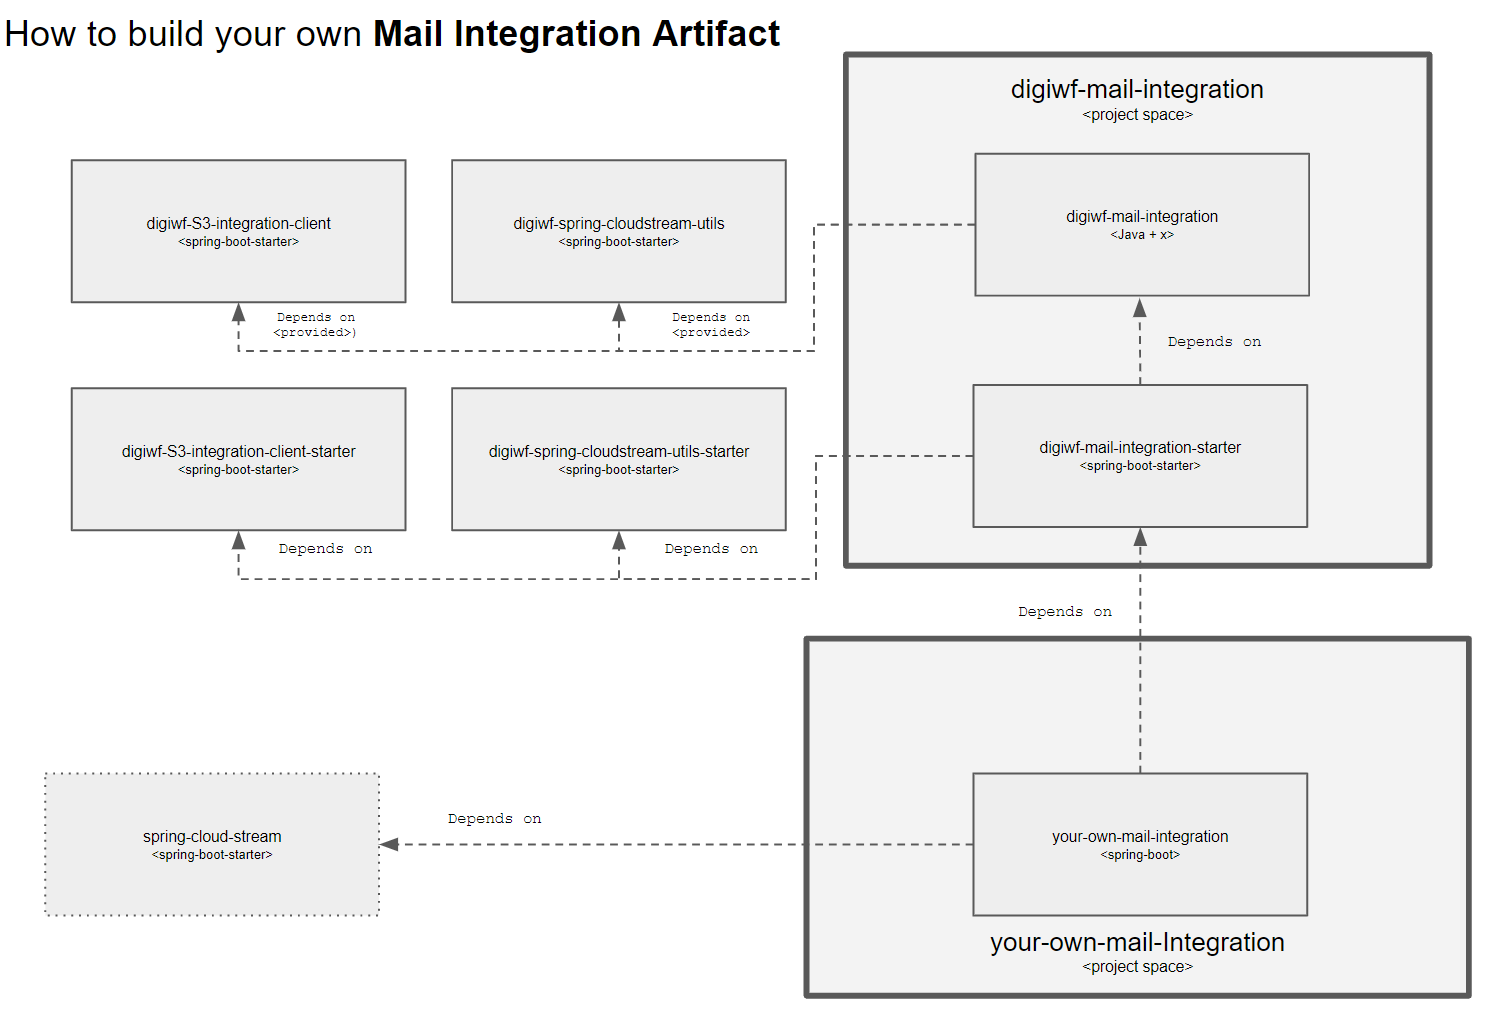
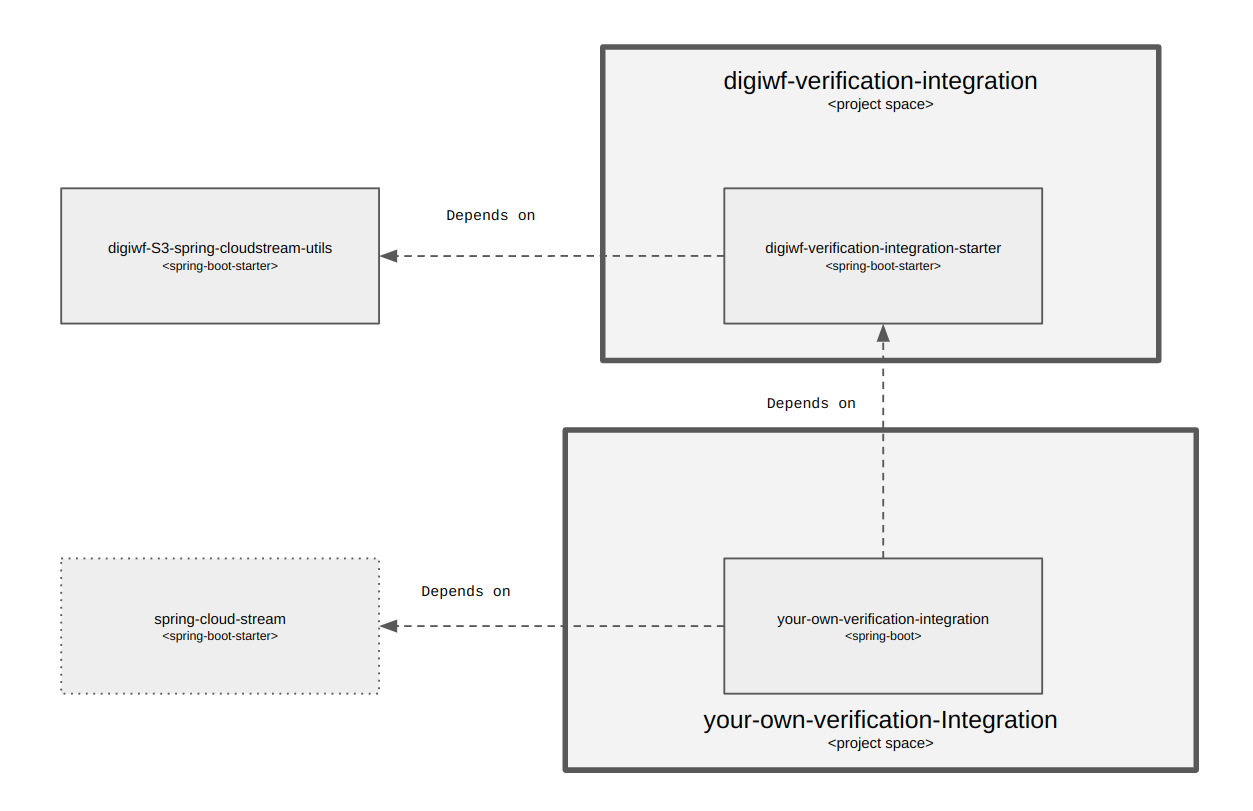
docu

diff --git a/README.md b/README.md
@@ -12,24 +12,51 @@
 <!-- PROJECT LOGO -->
 <br />
 <div align="center">
-  <a href="#">
+  <a href="https://github.com/it-at-m/digiwf-verification-integration">
     <img src="images/logo.png" alt="Logo" height="200">
   </a>
 
-<h3 align="center">DigiWF <i>Integration Template</i></h3>
+<h3 align="center">DigiWF Verification Integration</h3>
 
   <p align="center">
-    <i>Cookiecutter for Spring Boot Starters</i>
+    This is a Spring Boot Starter library to integrate the verification service within the DigiWF environment.
     <br /><a href="https://github.com/it-at-m/digiwf-integration-template/issues">Report Bug</a>
     ·
     <a href="https://github.com/it-at-m/digiwf-integration-template/issues">Request Feature</a>
   </p>
 </div>
 
+<!-- TABLE OF CONTENTS -->
+<details>
+  <summary>Table of Contents</summary>
+  <ol>
+    <li>
+      <a href="#about-the-project">About The Project</a>
+      <ul>
+        <li><a href="#built-with">Built With</a></li>
+      </ul>
+    </li>
+    <li>
+      <a href="#getting-started">Getting Started</a>
+    </li>
+    <li>
+      <a href="#Documentation">Documentation</a>
+    </li>
+    <li>
+      <a href="#Architecture">Architecture</a>
+    </li>
+    <li><a href="#contributing">Contributing</a></li>
+    <li><a href="#license">License</a></li>
+    <li><a href="#contact">Contact</a></li>
+  </ol>
+</details>
+
 <!-- ABOUT THE PROJECT -->
 ## About The Project
 
-*Cookiecutter for Spring Boot Starters.*
+The goal of this library is to provide a service able to get a verification registered 
+and return a verification link which later can be used to verify any data by confirmation.  
+
 <p align="right">(<a href="#top">back to top</a>)</p>
 
 
@@ -38,20 +65,29 @@
 
 The documentation project is built with technologies we use in our projects:
 
-* Spring Boot
-* [Cookiecutter](https://cookiecutter.readthedocs.io/en/stable/)
+* [Spring Boot](https://spring.io/projects/spring-boot)
+* [Spring Cloud Stream](https://spring.io/projects/spring-cloud-stream)
+* [DigiWF Spring Cloudstream Utils](https://github.com/it-at-m/digiwf-spring-cloudstream-utils)
+
+
+<p align="right">(<a href="#top">back to top</a>)</p>
+
+<!-- GETTING STARTED -->
+
+## Getting started
+
+For an explanation on how to get started, please refer to
+the [quickstart doc](https://github.com/it-at-m/digiwf-verification-integration/blob/dev/docs/quickstart.md).
 
 <p align="right">(<a href="#top">back to top</a>)</p>
 
 ## Documentation
 
-Install [Cookiecutter](https://cookiecutter.readthedocs.io/en/stable/installation.html)
+For all further documentation, please refer to
+the [documentations doc](https://github.com/it-at-m/digiwf-verification-integration/blob/dev/docs/documentation.md).
 
-**Usage**
+<p align="right">(<a href="#top">back to top</a>)</p>
 
-````bash
-cookiecutter https://github.com/it-at-m/digiwf-integration-template
-````
 
 **Important Notice**
 
@@ -59,6 +95,14 @@ The default java package is `io.muenchendigital.digiwf`.
 If you want to use a different java package you have to change the directory structure manually.
 
 <p align="right">(<a href="#top">back to top</a>)</p>
+
+## Architecture
+
+For a small impression of the architecture, please refer to
+the [architecture doc](https://github.com/it-at-m/digiwf-verification-integration/blob/dev/docs/architecture.md).
+
+<p align="right">(<a href="#top">back to top</a>)</p>
+
 
 <!-- CONTRIBUTING -->
 ## Contributing

diff --git a/docs/documentation.md b/docs/documentation.md
@@ -1,7 +1,25 @@
 ## Documentation
 
-To send an e-mail through the eventbus, simply create
-a [Mail](https://github.com/it-at-m/digiwf-email-integration/tree/dev/digiwf-email-integration/src/main/java/io/muenchendigital/digiwf/email/integration/domain/model/Mail.java)
-object, set the TYPE-Header
-to [MessageProcessor.TYPE_HEADER_SEND_MAIL_FROM_EVENT_BUS](https://github.com/it-at-m/digiwf-email-integration/tree/dev/digiwf-email-integration/src/main/java/io/muenchendigital/digiwf/email/integration/domain/streaming/MessageProcessor.java)
-and send it to the corresponding kafka topic. That's it!
+
+I can request a verification link from within a business process. 
+This verification link has a certain validity, if "Expiry time" has been set. After the expiration of this period, the link can no longer be called. 
+This means that clicking on the link does not send a message to a waiting process instance and the user is informed that the validity of the link has already expired.
+If the token passed by the link cannot be assigned (via DB lookup), then a generic error message is issued to the user.
+The verification link is constructed in such a way that no user data (e-mail, correlation key, etc.) is given to the outside. A random and unique token is generated here.
+If the user clicks on the link within the defined expiration period, 
+* the message name is sent to the (hopefully) waiting process with the given process instance id.
+* feedback is given to the user whether the transaction was successful (the process was activated) or not.
+* it cannot be clicked a second time with a positive result.
+
+The following data is needed to get the verification link:
+
+* Process instance id: the id uniquely identifying the process instance.
+* Message name: The key that can be uniquely assigned to a message catch event in an active process instance.
+* Expiry time (optional): If this parameter is not set, the link is valid "infinitely". If this parameter is set, it is validated on verification.
+* Subject (optional): Additional information such as e-mail or similar. In a scenario with a long context (for example, a user account), this parameter could prevent a user from having to verify n times.
+
+In the scenario described above, it does not take into account that the process instance is no longer present at the time of verification (although it still happens in the required time period). The user would then still receive positive feedback because the correlation key was sent to the - supposedly - waiting instance.
+<div>
+    <img src="https://github.com/it-at-m/digiwf-verification-integration/blob/dev/images/flowchart.png" alt="Architecture"/>
+</div>
+

diff --git a/docs/quickstart.md b/docs/quickstart.md
@@ -4,14 +4,14 @@ Below is an example of how you can install and set up your service.
 
 1. Use the spring initalizer and create a Spring Boot application with `Spring Web`
    dependencies [https://start.spring.io](https://start.spring.io)
-2. Add the digiwf-email-integration-starter dependency.
+2. Add the digiwf-verification-integration-starter dependency.
 
 With Maven:
 
 ```
    <dependency>
         <groupId>io.muenchendigital.digiwf</groupId>
-        <artifactId>digiwf-email-integration-starter</artifactId>
+        <artifactId>digiwf-verification-integration-starter</artifactId>
         <version>${digiwf.version}</version>
    </dependency>
 ```
@@ -19,7 +19,7 @@ With Maven:
 With Gradle:
 
 ```
-implementation group: 'io.muenchendigital.digiwf', name: 'digiwf-email-integration-starter', version: '${digiwf.version}'
+implementation group: 'io.muenchendigital.digiwf', name: 'digiwf-verification-integration-starter', version: '${digiwf.version}'
 ```
 
 3. Add your preferred binder (see [Spring Cloud Stream](https://spring.io/projects/spring-cloud-stream)). In this
@@ -51,28 +51,17 @@ implementation group: 'org.springframework.cloud', name: 'spring-cloud-stream-bi
 5. Configure your application
 
 ```
-spring:
-  mail:
-    host: mail.example.com
-    port: 587
-    username: mymail@example.de
-    password: yourExcellentPassword
-    properties:
-      mail.debug: false
-      mail.tls: true
-      mail.transport.protocol: smtp
-      mail.smtp.host: mail.example.com
-      mail.smtp.port: 587
-      mail.smtp.connectiontimeout: 10000
-      mail.smtp.timeout: 10000
-      mail.smtp.auth: true
-      mail.smtp.ssl.trust: "*"
-      mail.smtp.ssl.checkserveridentity: true
-      mail.smtp.socketFactory.fallback: true
-      mail.smtp.starttls.enable: true
+spring.datasource.url=jdbc:h2:mem:verification
+spring.datasource.username=sa
+spring.datasource.driver-class-name=org.h2.Driver
+spring.h2.console.enabled=true
+spring.jpa.database=H2
+spring.jpa.hibernate.dll-auto=create-drop
+spring.jpa.database-platform=org.hibernate.dialect.H2Dialect
+spring.jpa.hibernate.naming.physical-strategy: org.hibernate.boot.model.naming.PhysicalNamingStrategyStandardImpl
+spring.jpa.show-sql=true
+spring.jpa.properties.hibernate.format_sql=true
+spring.flyway.enabled=false
+
+io.muenchendigital.digiwf.verification.integration.baseAddress=http://localhost:${server.port}
 ```
-
-You can also use digiwf.mail.fromAddress to define a mail address when not using smtp.auth.
-
-6. Define a RestTemplate. For an example, please refer to
-   the [example project](https://github.com/it-at-m/digiwf-email-integration/tree/dev/example-digiwf-email-integration).

diff --git a/docs/architecture.md b/docs/architecture.md
@@ -1,5 +1,18 @@
 ## Architecture
 
+The integration artifact is built as a Spring Boot starter. I.e. there must not be a central instance of the service, but potentially n services are operated in different domains.
+
+It must be noted that the API must be accessible from the outside (internet) for verification. 
+
+How the Service should technically work:
+
 <div>
-    <img src="https://github.com/it-at-m/digiwf-email-integration/raw/de4289200223bd74548dc462f07f9d07efdcb27c/images/architecture.png" alt="Architecture">
+    <img src="https://github.com/it-at-m/digiwf-verification-integration/blob/dev/images/dataflow.png" alt="Data Flow"/>
 </div>
+
+
+How the Service should be used in a domain-specific scenario:
+<div>
+    <img src="https://github.com/it-at-m/digiwf-verification-integration/blob/dev/images/architecture.png" alt="Architecture"/>
+</div>
+
